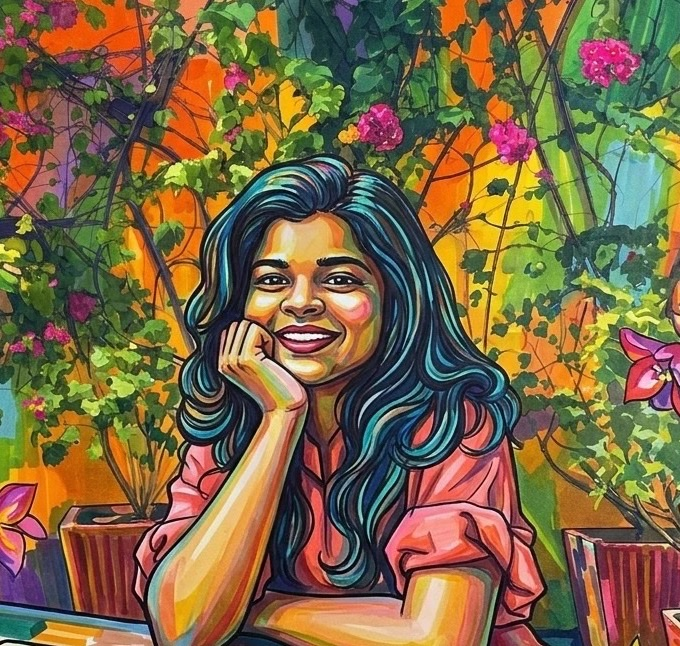
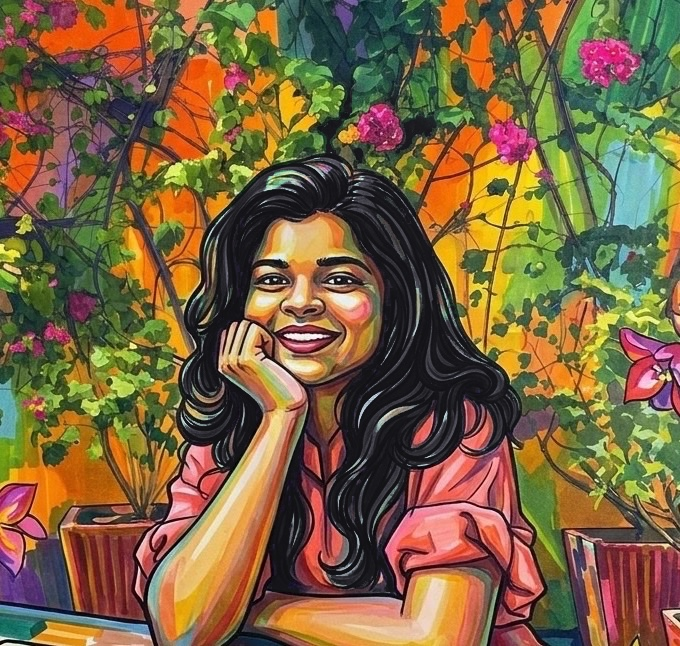
Hero painting: darken the hair to black

diff --git a/index.html b/index.html
@@ -104,7 +104,7 @@
                 </mask>
               </defs>
               <g class="rise">
-                <image mask="url(#canvas-mask)" href="images/portrait-scene.jpg" width="680" height="646" preserveAspectRatio="xMidYMid slice"/>
+                <image mask="url(#canvas-mask)" href="images/portrait-scene.jpg?v=2" width="680" height="646" preserveAspectRatio="xMidYMid slice"/>
               </g>
             </svg>
           </div>
